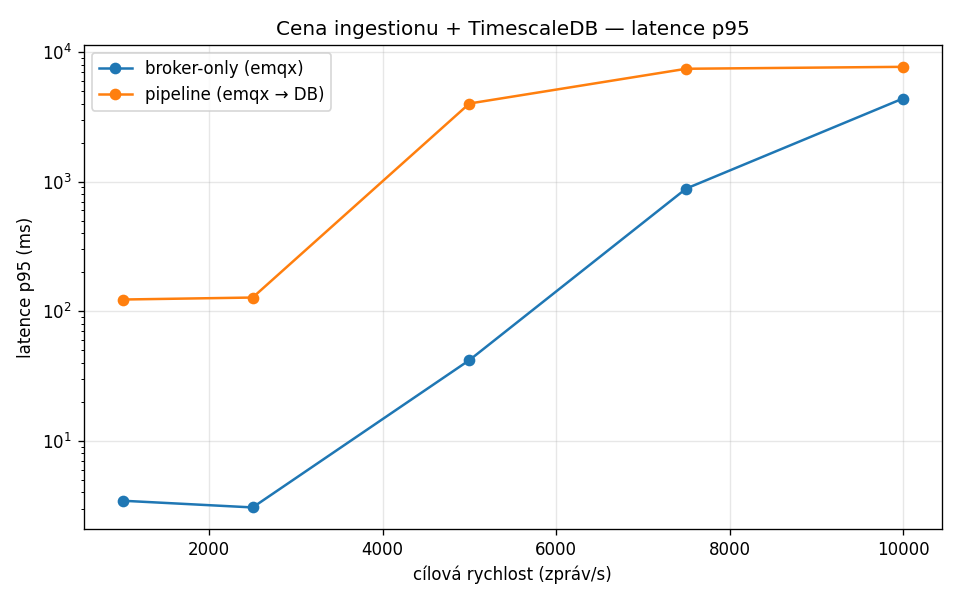
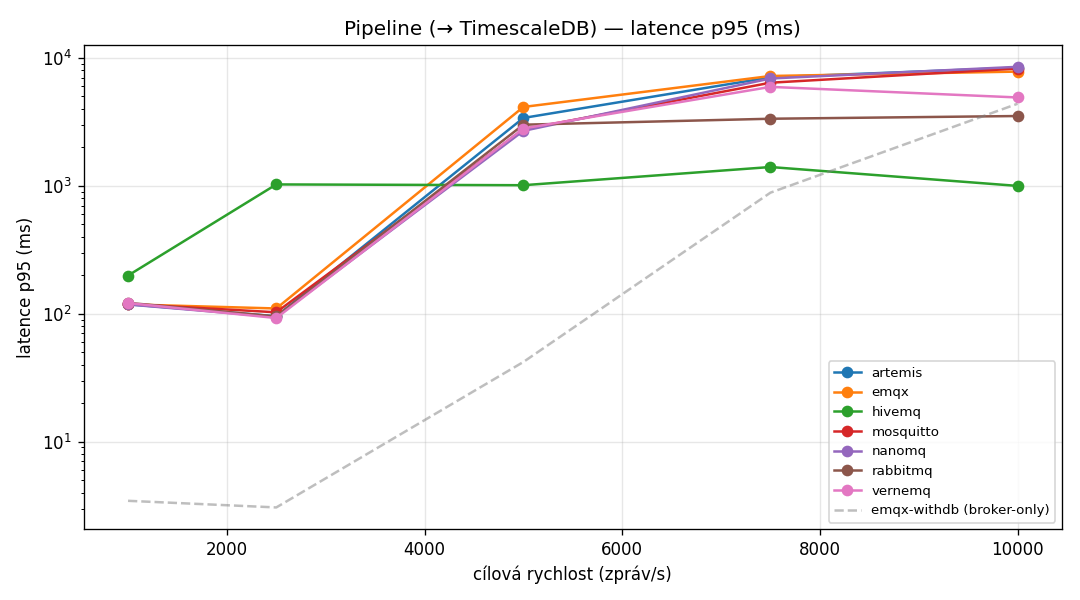
Pipeline benchmark: sweep přes všech 7 brokerů (broker-nezávislost)
Pipeline změřena pro všech 7 brokerů — potvrzeno, že strop je daný
ingestion konzumentem, ne brokerem:
- 6 brokerů (EMQX/Mosquitto/NanoMQ/VerneMQ/RabbitMQ/Artemis): strop ~5000/s
- HiveMQ: ~1250/s (jeho QoS1 strop je hrdlem dřív než ingester)

- export.py: pipeline grafy přes víc brokerů (latence+propustnost,
  + čárkovaná broker-only reference)
- README: per-broker tabulka + závěr (volba brokeru pipeline nemění,
  rozhoduje ingestion vrstva; výjimka HiveMQ)

diff --git a/benchmarks/brokers/brokerbench/export.py b/benchmarks/brokers/brokerbench/export.py
@@ -248,7 +248,11 @@ def write_scaletest_charts(results_dir: Path, out_dir: Path) -> list[str]:
 
 
 def write_pipeline_chart(results_dir: Path, out_dir: Path) -> list[str]:
-    """Graf pipeline: latence (p95) a propustnost broker-only vs end-to-end (DB)."""
+    """Grafy pipeline (end-to-end → DB) per broker: latence p95 a propustnost.
+
+    Plus přerušovaná reference broker-only (emqx s DB) = co umí samotný broker
+    bez zápisu do DB.
+    """
     try:
         import matplotlib
         matplotlib.use("Agg")
@@ -256,66 +260,51 @@ def write_pipeline_chart(results_dir: Path, out_dir: Path) -> list[str]:
     except ImportError:
         return []
 
-    def latest(glob_pat: str):
-        files = sorted(results_dir.glob(glob_pat))
-        if not files:
-            return None
-        try:
-            return json.loads(files[-1].read_text())
-        except (ValueError, OSError):
-            return None
-
-    pipe = latest("pipeline-*.json")
-    base = latest("*-withdb-*.json")
-    if not pipe:
+    pipes = _latest_per_broker(results_dir, "pipeline-")  # {pipeline-<b>: data}
+    if not pipes:
         return []
+    base = _latest_per_broker(results_dir, "")  # broker-only-with-db baseline(y)
+    base = {k: v for k, v in base.items() if k.endswith("-withdb")}
 
     def series(d, key):
         steps = d.get("steps", [])
         xs = [s["target_rate"] for s in steps]
-        if key == "p95":
-            ys = [s.get("lat", {}).get("p95", 0) for s in steps]
-        else:
-            ys = [s.get(key, 0) for s in steps]
+        ys = ([s.get("lat", {}).get("p95", 0) for s in steps] if key == "p95"
+              else [s.get(key, 0) for s in steps])
         return xs, ys
 
     out_dir.mkdir(parents=True, exist_ok=True)
     written: list[str] = []
 
-    # Latence p95: broker-only vs pipeline (log škála — pipeline saturuje dřív).
-    fig, ax = plt.subplots(figsize=(8, 5))
-    if base:
-        x, y = series(base, "p95"); ax.plot(x, y, marker="o", label="broker-only (emqx)")
-    x, y = series(pipe, "p95"); ax.plot(x, y, marker="o", label="pipeline (emqx → DB)")
-    ax.set_xlabel("cílová rychlost (zpráv/s)")
-    ax.set_ylabel("latence p95 (ms)")
-    ax.set_yscale("log")
-    ax.set_title("Cena ingestionu + TimescaleDB — latence p95")
-    ax.grid(True, alpha=0.3)
-    ax.legend()
-    fig.tight_layout()
-    p = out_dir / "pipeline-latency.png"
-    fig.savefig(p, dpi=120)
-    plt.close(fig)
-    written.append(str(p))
-
-    # Propustnost (uloženo/s) vs cíl.
-    fig, ax = plt.subplots(figsize=(8, 5))
-    if base:
-        x, y = series(base, "throughput"); ax.plot(x, y, marker="o", label="broker-only (emqx)")
-    x, y = series(pipe, "throughput"); ax.plot(x, y, marker="o", label="pipeline (emqx → DB)")
-    allx = sorted({s["target_rate"] for s in pipe.get("steps", [])})
-    ax.plot(allx, allx, "k--", alpha=0.3, label="ideál (cíl)")
-    ax.set_xlabel("cílová rychlost (zpráv/s)")
-    ax.set_ylabel("propustnost (zpráv/s)")
-    ax.set_title("Cena ingestionu + TimescaleDB — propustnost")
-    ax.grid(True, alpha=0.3)
-    ax.legend()
-    fig.tight_layout()
-    p = out_dir / "pipeline-throughput.png"
-    fig.savefig(p, dpi=120)
-    plt.close(fig)
-    written.append(str(p))
+    for key, ylabel, fname, logy in [
+        ("p95", "latence p95 (ms)", "pipeline-latency.png", True),
+        ("throughput", "uloženo (zpráv/s)", "pipeline-throughput.png", False),
+    ]:
+        fig, ax = plt.subplots(figsize=(9, 5))
+        for label in sorted(pipes):
+            x, y = series(pipes[label], key)
+            if x:
+                ax.plot(x, y, marker="o", label=label.replace("pipeline-", ""))
+        for label in sorted(base):  # broker-only reference (čárkovaně)
+            x, y = series(base[label], key)
+            if x:
+                ax.plot(x, y, "--", alpha=0.5, label=f"{label} (broker-only)")
+        if key == "throughput":
+            allx = sorted({s["target_rate"] for d in pipes.values()
+                           for s in d.get("steps", [])})
+            ax.plot(allx, allx, "k:", alpha=0.3, label="ideál (cíl)")
+        ax.set_xlabel("cílová rychlost (zpráv/s)")
+        ax.set_ylabel(ylabel)
+        if logy:
+            ax.set_yscale("log")
+        ax.set_title(f"Pipeline (→ TimescaleDB) — {ylabel}")
+        ax.grid(True, alpha=0.3)
+        ax.legend(fontsize=8)
+        fig.tight_layout()
+        p = out_dir / fname
+        fig.savefig(p, dpi=120)
+        plt.close(fig)
+        written.append(str(p))
     return written
 
 

diff --git a/benchmarks/brokers/README.md b/benchmarks/brokers/README.md
@@ -417,8 +417,12 @@ medián ze 3, broker-only měřeno se **zapnutou DB** (férové prostředí).
 | broker-only `emqx` (DB zapnutá) | 5 000 | 41.9 | 49.4 | broker CPU 199 % / 252 MB |
 | pipeline `emqx → DB` | 5 000 | 4 002 | 4 027 | DB 45 % / 153 MB · ingester 29 % / 49 MB |
 
-![Latence p95: broker-only vs pipeline](charts/pipeline-latency.png)
-![Propustnost: broker-only vs pipeline](charts/pipeline-throughput.png)
+![Latence p95 pipeline napříč brokery](charts/pipeline-latency.png)
+![Propustnost pipeline napříč brokery](charts/pipeline-throughput.png)
+
+*Plné čáry = pipeline (→ DB) pro každý broker; čárkovaně broker-only `emqx` (bez
+zápisu do DB). 6 brokerů splývá na společném stropu ingesteru ~5 000/s; HiveMQ
+je níž (~1 250/s — jeho QoS1 strop, viz výše).*
 
 ### Závěr
 
@@ -434,4 +438,20 @@ medián ze 3, broker-only měřeno se **zapnutou DB** (férové prostředí).
   primárně databázi. To je přesně to, co řeší Fáze 4 (ROADMAP §4).
 - Reprodukovatelnost: latence závisí na `flush_ms` a `synchronous_commit` —
   proto je `pipeline.py` vypisuje i ukládá do JSON.
+
+### Napříč brokery — je pipeline broker-nezávislá?
+
+Pipeline byla změřena pro **všech 7 brokerů**. Protože hrdlem je ingestion
+konzument (ne broker, ne DB), výsledek to potvrzuje:
+
+| Broker | strop pipeline (uloženo/s) | hrdlo |
+|---|---:|---|
+| EMQX, Mosquitto, NanoMQ, VerneMQ, RabbitMQ, Artemis | **~5 000** | ingestion konzument |
+| HiveMQ CE | **~1 250** | broker (jeho QoS1 strop, viz výše) |
+
+**Závěr:** u 6 ze 7 brokerů je pipeline strop **stejný** (~5 000/s) — volba brokeru
+end-to-end výkon nemění, rozhoduje ingestion vrstva. Jediná výjimka je HiveMQ,
+kde je hrdlem už samotný broker (durabilní QoS1 ~1 250/s). To je silný argument:
+**pro škálování řešit ingestion, ne broker** — pokud nezvolíš broker, který sám
+QoS1 stropuje dřív (HiveMQ).
 
